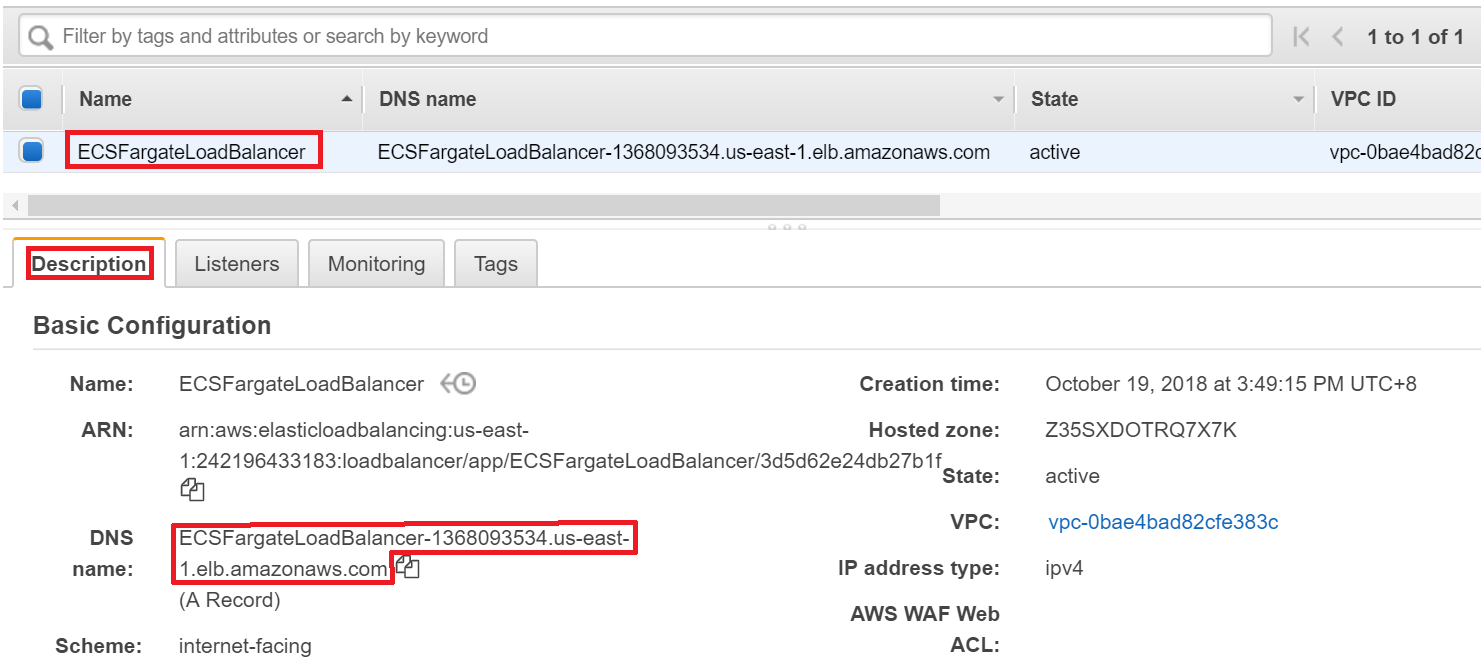
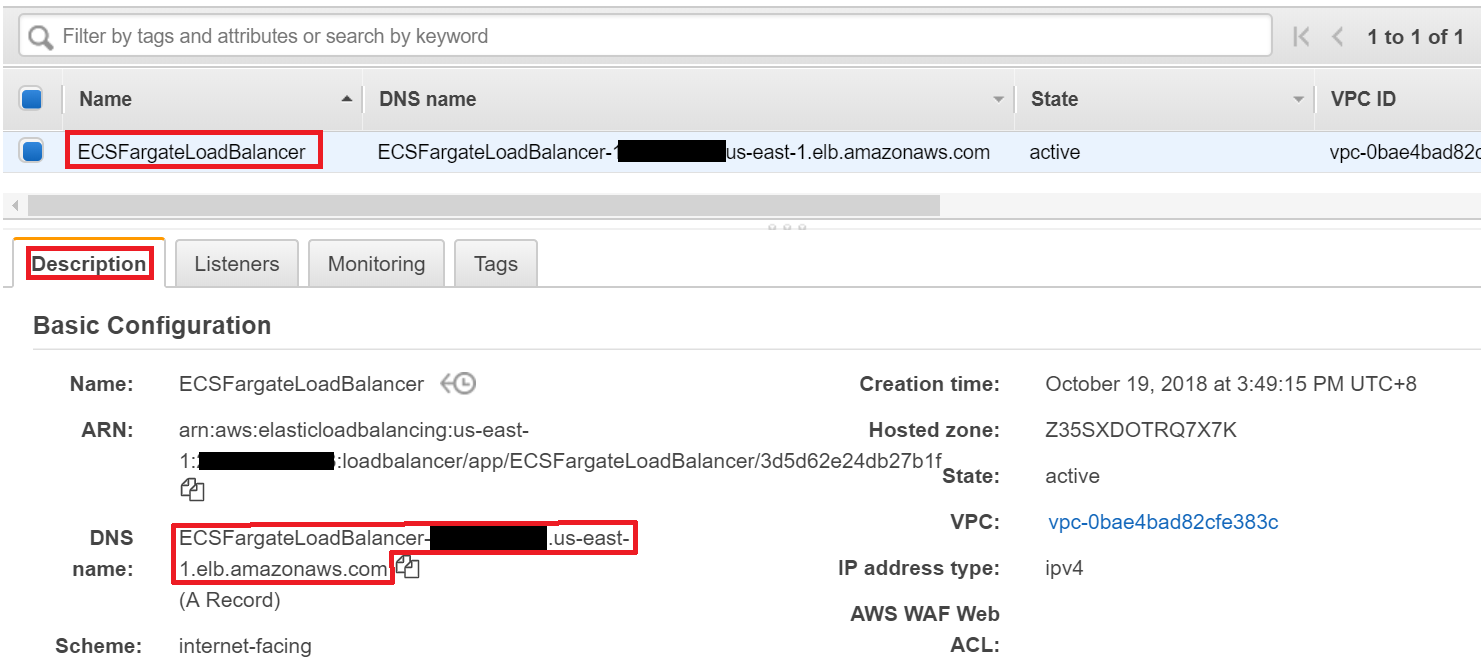
Add scaling EC2 service part and update broswer3.png

Changed region(s): [[0.1242, 0.6562, 0.2485, 0.7188], [0.4038, 0.1875, 0.497, 0.25], [0.2795, 0.7812, 0.3727, 0.8438]]

diff --git a/203-Auto-Scaling-on-Amazon-ECS/README.md b/203-Auto-Scaling-on-Amazon-ECS/README.md
@@ -10,7 +10,7 @@ After learning how to create a service on Amazon ECS, we will learn how to auto 
 ## Auto Scale Fargate Service on Amazon ECS
 While using Fargate, we can scale the service to fit our requrement without taking care of instances. In this section, we will create a service which can adjust the number of tasks automatically. The task we defined includes a container serving as a web server.
 
-* In Amazon ECS console, click **Clusters** on left panel. 
+* In [ECS console](https://console.aws.amazon.com/ecs/home?region=us-east-1#/clusters), click **Clusters** on left panel. 
 
 * Click **FargateCluster**.
 
@@ -155,23 +155,156 @@ While using Fargate, we can scale the service to fit our requrement without taki
 ![provisioning.png](../images/provisioning.png)
 
 
-## Use EC2
 
-## Use Fargate
 
-### Use EC2
 
-## Auto Scale Fargate on Amazon ECS
 
-## Auto Scale EC2 Instances on Amazon ECS
 
-## Create a Revision for EC2 Task
-If you are using Fargate, please skip to next section. 
 
-* In Amazon ECS, click **Task Definitions** on left panel.
 
-* Select **runWebServerWithEC2** and click **Create new revision**.
 
-* Step to **Container Definitions** part, and click container **my_web_server**.
+## Auto Scale EC2 Service on Amazon ECS
 
-* In **port mappings**, leave **Host port** as **blank**. Because each host port can only be used by a container at the same time. If we leave host port as blank, a randon host port will be assigned to container. In the later section, we will use Elastic Load Balancer to disperse and forward requests to containers with different host ports.
+* In Amazon ECS console, click **Clusters** on left panel. 
+
+* Click **EC2Cluster**.
+
+* In tab **Services**, click **Create** button.
+
+* In **Launch type**, click **EC2**.
+
+* In **Task Definition**, select **runWebServerWithEC2**.
+
+* In **Service name**, type **AutoScalingEC2Service**.
+
+* In **Number of tasks**, type **1**.
+
+* Click **Next step** button.
+
+* In Cluster VPC, select **the VPC with CIDR 10.2.0.0/16** which you created in [Get Started with Amazon ECS Service](../202-Get-Started-with-Amazon-ECS-Service/README.md).
+
+* In **Subnet**, add **both subnet**.
+
+* Step to Load balancing part, select **Application Load Balancer**.
+
+* Click [**EC2 Console**](https://us-east-1.console.aws.amazon.com/ec2/v2/home?region=us-east-1#SelectCreateELBWizard:) to create an Application Load Balancer.
+
+![loadBalancer.png](../images/loadBalancer.png)
+
+* In Application Load Balancer, click the **Create** button below.
+
+* In **Name**, type **ECSEC2LoadBalancer**.
+
+* Step to Availability Zones part, For VPC, select **the VPC with CIDR 10.2.0.0/16**.
+
+* Select **both subnet**.
+
+* Click **Next: Configure Security Settings** button.
+
+* Click **Next: Configure Security Groups** button.
+
+* In Step3: Configure Security Groups, select **Create a new security group**.
+
+* In **Security group name**, type **AllowHTTPForLoadBalancer**.
+
+* In **Type**, select **HTTP**.
+
+* In **Source**, select **Anywhere**.
+
+* Click **Next: Configure Routing**.
+
+* In **Target group**, select **New target group**.
+
+* In **Name**, Type **EC2Containers**.
+
+* In **Protocol**, select **HTTP**.
+
+* In **Target type**, select **ip**.
+
+* In **Path**, type **/**.
+
+* Click **Next: Register Targets**.
+
+* Because we can set up the service to automatically register containers, therefore we click **Next: Review** to skip.
+
+* Click **Create** and wait for the creation.
+
+* Back to **Create Service** page.
+
+* Click **Refresh** button, and select **ECSEC2LoadBalancer**.
+
+![loadBalancer2.png](../images/loadBalancer2.png)
+
+* Click **Add to load balancer** button.
+
+* In **Listener Port**, select **80:HTTP**.
+
+* In **Target group name**, select **EC2Containers** which we created before.
+
+* Click **Next step** button.
+
+* In **Service Auto Scaling**, select **Configure Service Auto Scaling to adjest your service's desired count**.
+
+* In **Minimum number of tasks**, type **1**.
+
+* In **Maximum number of tasks**, type **2**.
+
+* In **IAM role for Service Auto Scaling**, select **Create new role**.
+
+* For **Automatic task scaling policies** part, in **Scaling policy type**, select **Target tracking**.
+
+* In **Policy name**, type **myScalingPolicy**.
+
+* In **ECS service metric**, select **ALBRequestCountPerTarget**.
+
+* In **Target value**, type **3**.
+
+* Click **Next step**.
+
+* Click **Create Service** and wait for creation.
+
+* Click **View Service**.
+
+* Go to [**CloudWatch Management Console**](https://console.aws.amazon.com/cloudwatch/home?region=us-east-1#dashboard:).
+
+* Click **Alarms** on left penal.
+
+* In search bar, type **AutoScalingEC2Service** to search alarm.
+
+* Select the alarm with **`AlarmHigh`** suffix.
+
+* Click **Actions -> Modify**.
+
+* In **for** attribute, modify it as **1 out of 1 datapoints**.
+
+![alarm.png](../images/alarm.png)
+
+* Click **Save Changes**.
+
+* Select the alarm with **`AlarmLow`** suffix.
+
+* Click **Actions -> Modify**.
+
+* In **for** attribute, modify it as **1 out of 1 datapoints**.
+
+![alarm2.png](../images/alarm2.png)
+
+* Click **Save Changes**.
+
+* Go to [**EC2 console**](https://console.aws.amazon.com/ec2/v2/home?region=us-east-1), click **Load Balancers** on left panel.
+
+* Click **ECSEC2LoadBalancer** which we created before, in **Description** tab, copy the **DNS name**.
+
+![DNS.png](../images/DNS.png)
+
+* Open a new tab in your browser, paste **the DNS name** and press Enter. You should be able to see the **hello world** message.
+
+![browser3.png](../images/browser3.png) 
+
+* **Refresh** the page **at least 4 times**, and wait for a minute.
+
+* Back to **ECS console -> Clusters -> EC2Cluster -> AutoScalingEC2Service**.
+
+* Keep refreshing the page and you should be able to see that there are two tasks running now (or one is provisioning and one is running).
+
+![provisioning.png](../images/provisioning.png)
